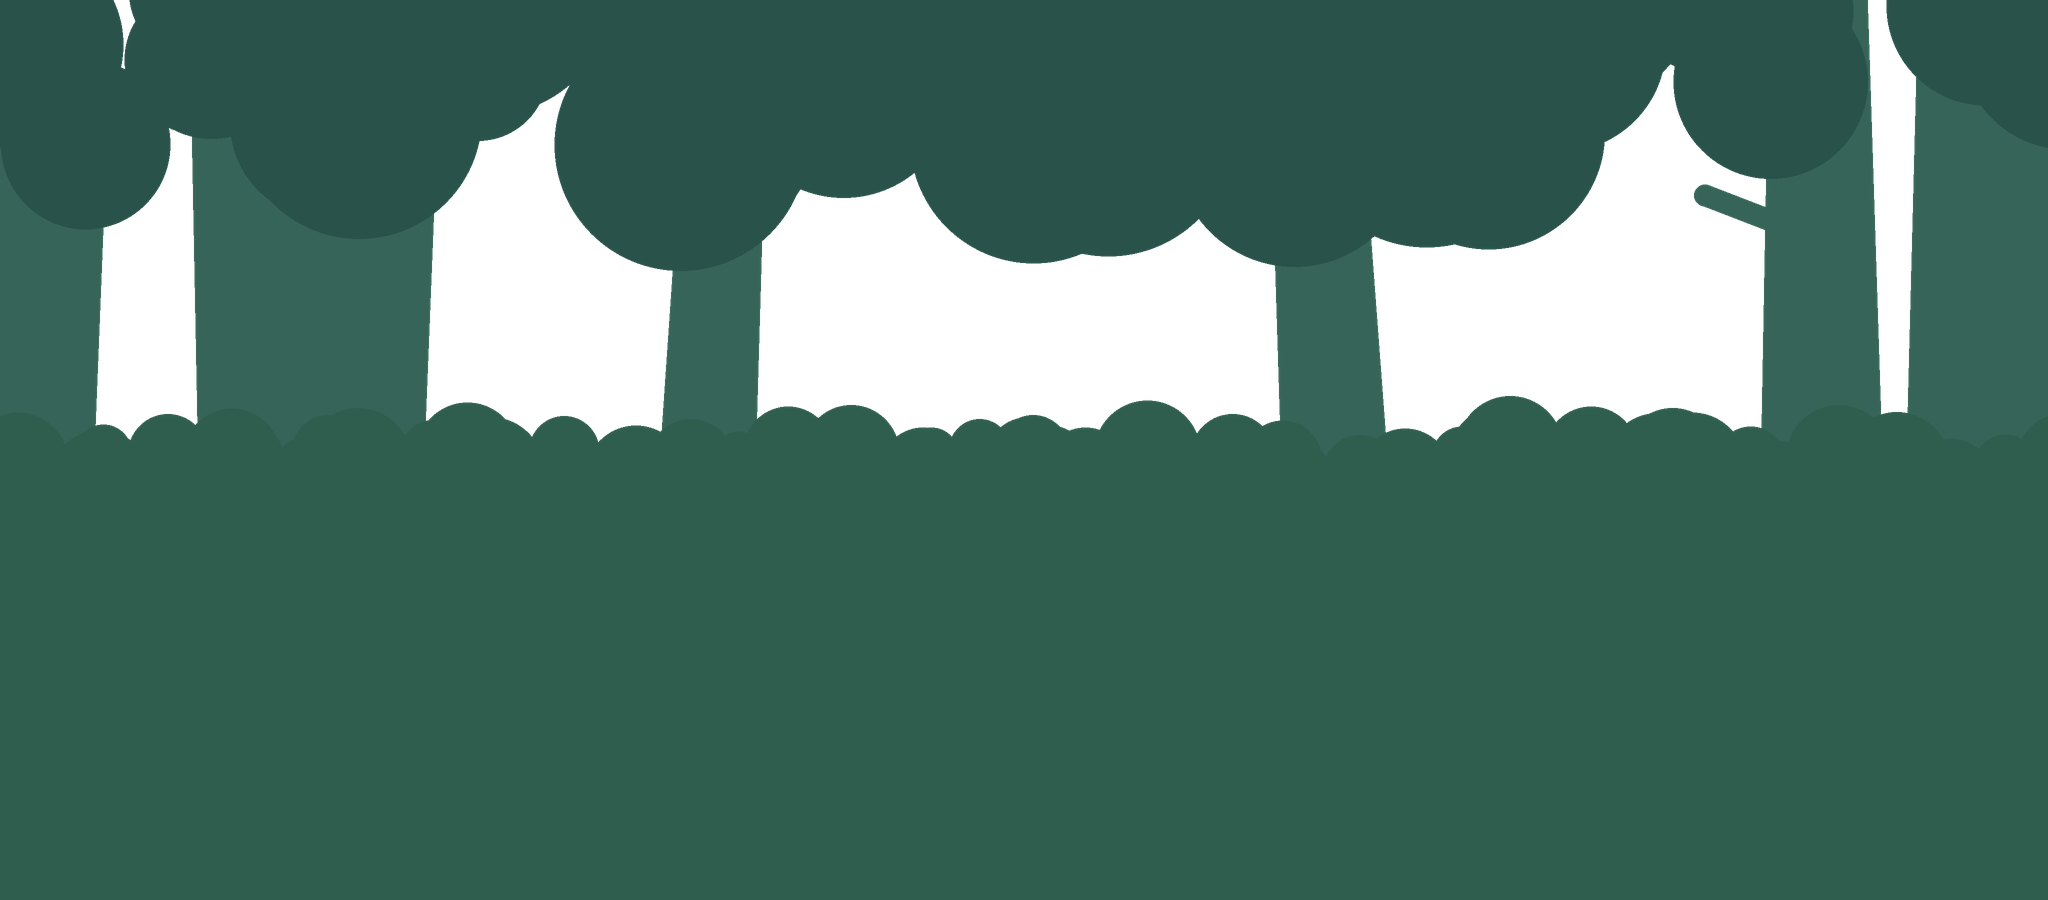
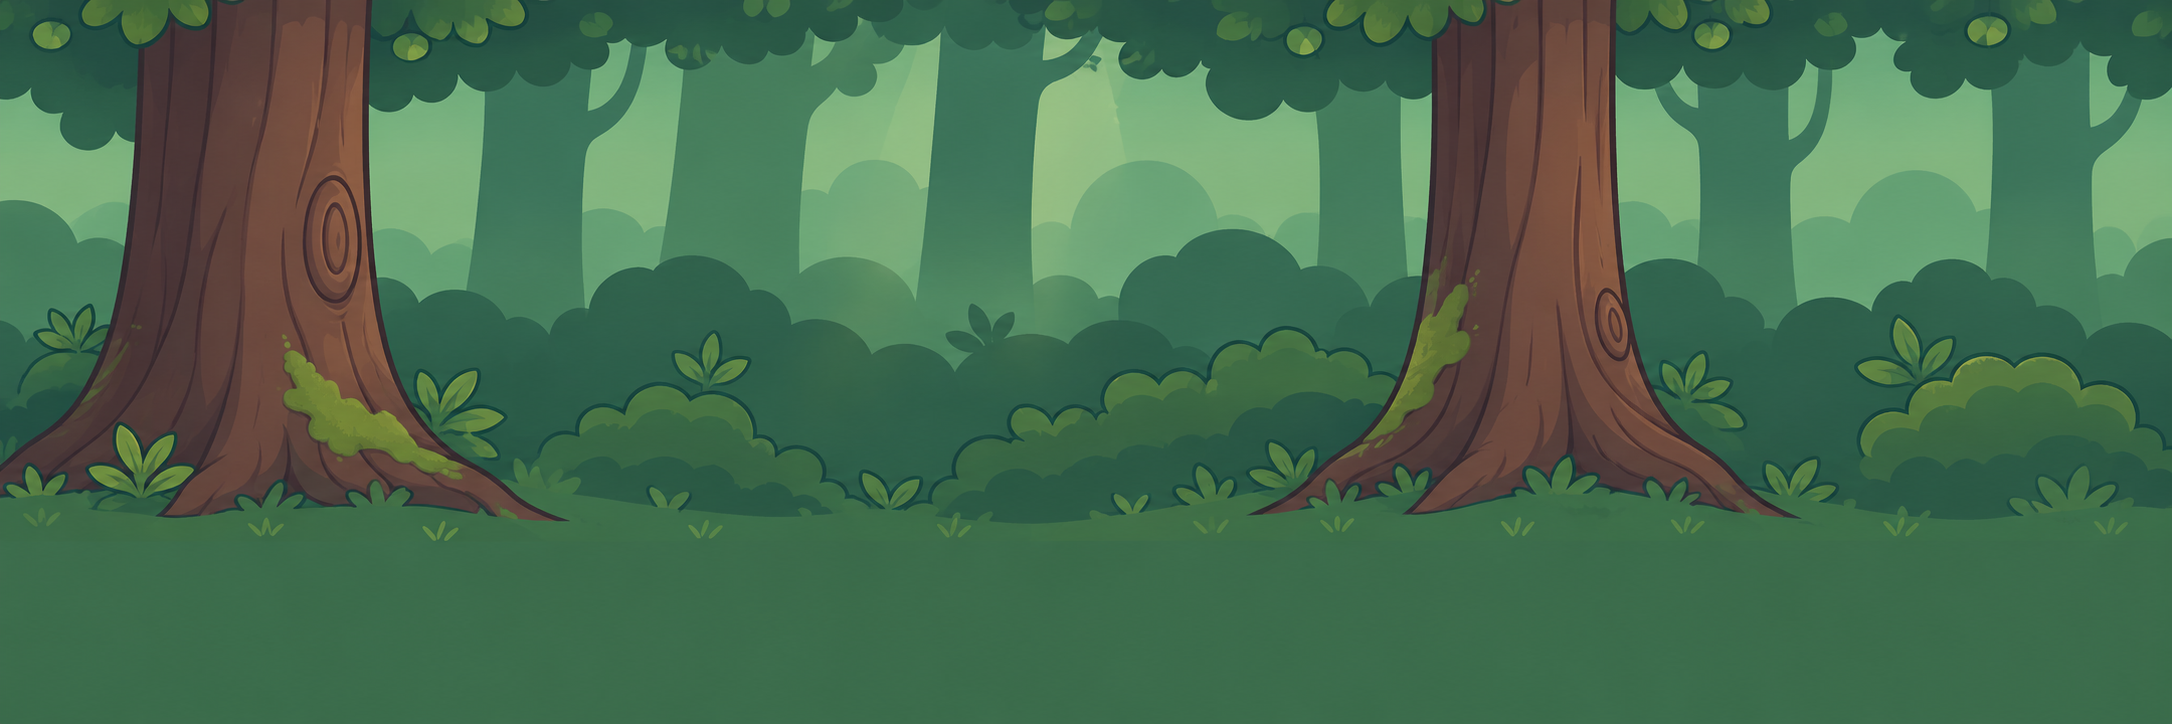
Replace procedural canopy/mid-tree/ground art with hand-drawn backgrounds
Swaps bg_canopy, bg_mid, and bg_ground for user-supplied painted art
(canopy chroma-keyed from black, ground cropped/keyed to drop its
white canvas margin and scalloped-edge gaps). Adds per-layer tile
widths to World.cs since the new art's native resolution/PPU no
longer matches the original 2048px/100ppu procedural tiles.

Claude-Session: https://claude.ai/code/session_01HejqDYbFUsQs6Xwk3Ffyy6

diff --git a/Assets/Scripts/World.cs b/Assets/Scripts/World.cs
@@ -45,13 +45,18 @@ public static class World
 
     static void Obstacle(float x, float y, float r) { obs.Add(new Ob { c = new Vector2(x, y), r = r }); }
 
-    static Transform Layer(Transform root, string sprite, float factor, float y, int order, string layer, float from, float to, bool followY)
+    static Transform Layer(Transform root, string sprite, float factor, float y, int order, string layer, float from, float to, bool followY, float tileW = -1)
     {
         var go = new GameObject("Layer_" + sprite); go.transform.SetParent(root, false);
         var p = go.AddComponent<Parallax>(); p.factor = factor; p.baseY = y; p.followY = followY;
-        for (float x = from; x < to; x += Tile) { var sr = Art.New(sprite, go.transform, new Vector3(x, 0, 0), order, layer); }
+        float t = tileW > 0 ? tileW : Tile;
+        for (float x = from; x < to; x += t) { var sr = Art.New(sprite, go.transform, new Vector3(x, 0, 0), order, layer); }
         return go.transform;
     }
+
+    // World-space tile widths for hand-drawn backgrounds whose native resolution/PPU differs from
+    // the original procedural art (which was all authored at 2048px / 100ppu = 20.48 world units).
+    public const float TileMid = 27.15f, TileCanopy = 12.63f, TileGround = 16.71f;
 
     public static void Build(Transform root, Transform cam)
     {
@@ -61,10 +66,10 @@ public static class World
         var sky = Art.New("bg_sky", cam, new Vector3(0, 0, 10), -100, "Background");
         sky.transform.localScale = new Vector3(600, 4.2f, 1);
         Layer(root, "bg_far", 0.86f, 0.25f, -90, "Background", -Tile, len * 0.14f + 2 * Tile, true);
-        Layer(root, "bg_mid", 0.62f, 0.12f, -80, "Background", -Tile, len * 0.38f + 2 * Tile, true);
+        Layer(root, "bg_mid", 0.62f, 0.12f, -80, "Background", -TileMid, len * 0.38f + 2 * TileMid, true, TileMid);
         var ground = new GameObject("Ground").transform; ground.SetParent(root, false);
-        for (float x = -2 * Tile; x < len + Tile; x += Tile) Art.New("bg_ground", ground, new Vector3(x, -0.2f, 0), -50, "Background");
-        Layer(root, "bg_canopy", 0.12f, 5.15f, -10, "Foreground", -Tile, len * 0.88f + 2 * Tile, true);
+        for (float x = -2 * TileGround; x < len + TileGround; x += TileGround) Art.New("bg_ground", ground, new Vector3(x, -0.2f, 0), -50, "Background");
+        Layer(root, "bg_canopy", 0.12f, 5.15f, -10, "Foreground", -TileCanopy, len * 0.88f + 2 * TileCanopy, true, TileCanopy);
         Layer(root, "bg_fg", -0.3f, -5.95f, 0, "Foreground", -Tile, len * 1.3f + 2 * Tile, true);
         var vig = Art.New("fx_vignette", cam, new Vector3(0, 0, 9), 100, "Foreground");
         vig.transform.localScale = new Vector3(4.6f, 3.6f, 1);
